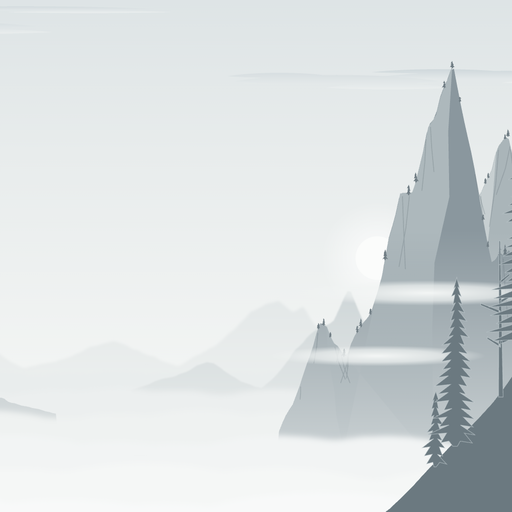
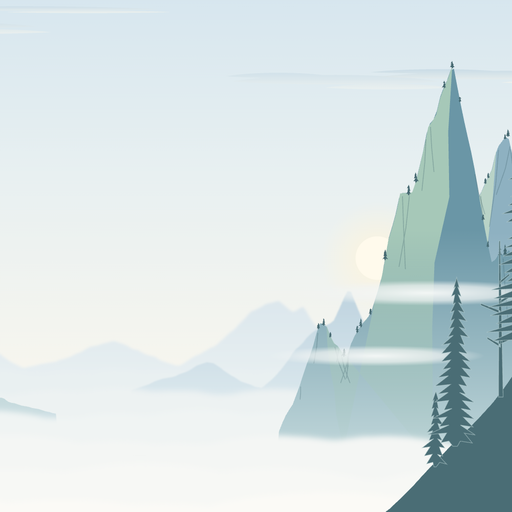
Bring light color back: dusty blue and pale green peaks, warm white mist, pale blue sky

Changed region(s): [[0.75, 0.125, 1.0, 1.0], [0.6875, 0.625, 0.7188, 0.6562]]

diff --git a/hooks/scene/land.ts b/hooks/scene/land.ts
@@ -1,5 +1,5 @@
 // The land: peaks that stand out of a sea of clouds like islands. The far ones are pale and small; the near ones
-// are tall, lighter on the side that faces the sun and dark ink in shade, with firs on their ledges. Every peak
+// are tall, soft green on the side that faces the sun and dusty blue in shade, with firs on their ledges. Every peak
 // fades into cloud at its foot. The tall peaks keep to the sides of the picture.
 
 import { SUN, WIDTH, between, chance } from './kit'
@@ -26,32 +26,32 @@ export const RANGES: readonly Range[] = [
   {
     floor: 704,
     steep: 1.3,
-    rock: '#dfe4e5',
-    foot: '#ecefee',
+    rock: '#d5e2ea',
+    foot: '#e9f0f2',
     peaks: [{ x: 330, reach: 250, rise: 250 }, { x: 590, reach: 150, rise: 100 }, { x: 870, reach: 170, rise: 60 }, { x: 1150, reach: 210, rise: 130 }, { x: 1590, reach: 260, rise: 330 }],
   },
   {
     floor: 736,
     steep: 1.15,
-    rock: '#cbd3d5',
-    foot: '#e3e7e7',
+    rock: '#b8cfdc',
+    foot: '#dde9ee',
     peaks: [{ x: 190, reach: 210, rise: 340 }, { x: 470, reach: 130, rise: 160 }, { x: 1040, reach: 120, rise: 52 }, { x: 1300, reach: 150, rise: 190 }],
   },
   {
     floor: 778,
     steep: 0.95,
-    rock: '#aab5b9',
-    foot: '#d9dedf',
-    lit: '#c7cfd1',
+    rock: '#8eb1c1',
+    foot: '#d3e3e7',
+    lit: '#b9d3c7',
     firs: { spacing: 16, low: 6, high: 13 },
     peaks: [{ x: 70, reach: 200, rise: 430 }, { x: 640, reach: 100, rise: 44 }, { x: 1560, reach: 210, rise: 500 }],
   },
   {
     floor: 826,
     steep: 0.8,
-    rock: '#8a979e',
-    foot: '#cbd2d4',
-    lit: '#adb8bc',
+    rock: '#6a96a6',
+    foot: '#c2d8db',
+    lit: '#a6c8b8',
     firs: { spacing: 13, low: 9, high: 24 },
     peaks: [{ x: -20, reach: 190, rise: 540 }, { x: 320, reach: 96, rise: 150 }, { x: 1266, reach: 84, rise: 210 }, { x: 1466, reach: 196, rise: 580 }],
   },
@@ -172,7 +172,7 @@ function cracks(seed: number, index: number, line: Skyline): string {
     }
   })
 
-  return `<path d="${lines}" fill="none" stroke="#66747b" stroke-opacity=".3" stroke-width="1.5" stroke-linecap="round" stroke-linejoin="round"/>`
+  return `<path d="${lines}" fill="none" stroke="#3f626a" stroke-opacity=".3" stroke-width="1.5" stroke-linecap="round" stroke-linejoin="round"/>`
 }
 
 /** Firs on the ledges, small against the rock, which is what shows how big the peaks are. */
@@ -206,7 +206,7 @@ export function range(seed: number, index: number): string {
   return (
     `<path d="M-40 ${shape.floor + 70}L${edge.join('L')}L${WIDTH + 40} ${shape.floor + 70}Z" fill="url(#rock${index})"${index < 2 ? ` filter="url(#far${index})"` : ''}/>` +
     (shape.lit === undefined ? '' : sunlit(seed, index, line) + cracks(seed, index, line)) +
-    (shape.firs === undefined ? '' : `<path d="${ledgeFirs(seed, index, line, shape.firs)}" fill="#6f7c83"/>`)
+    (shape.firs === undefined ? '' : `<path d="${ledgeFirs(seed, index, line, shape.firs)}" fill="#456870"/>`)
   )
 }
 
@@ -229,5 +229,5 @@ export function ledgeShape(): string {
     edge.push(`${x} ${Math.round(ledge(x))}`)
   }
 
-  return `<path d="M-20 1010L${edge.join('L')}L${WIDTH + 20} 1010Z" fill="#6b7980"/>`
+  return `<path d="M-20 1010L${edge.join('L')}L${WIDTH + 20} 1010Z" fill="#4a6d75"/>`
 }

diff --git a/hooks/register.tsx b/hooks/register.tsx
@@ -1,4 +1,5 @@
-// Vista theme: steep peaks standing out of a sea of mist, in quiet ink grays, with a matching light color theme.
+// Vista theme: steep peaks standing out of a sea of mist, in soft blue and green on warm white, with a matching light
+// color theme.
 // The tall peaks keep to the sides and the middle is left empty, because the app lays the chat there. The view
 // depends only on the session's seed, so it is drawn once and never flickers.
 
@@ -14,16 +15,16 @@ const SEED = { plugin: 'vista-theme', key: 'seed' } as const
 const { theme, problems } = makeColors({
   label: 'Vista',
   only: 'light',
-  roles: { accent: '#3d5a6c', danger: '#b3392f', success: '#2f7a55', warning: '#a86f14', pro: '#6d4f94' },
+  roles: { accent: '#2c6c7a', danger: '#b3392f', success: '#2f7a55', warning: '#a86f14', pro: '#6d4f94' },
   light: {
     gray: {
       anchors: {
-        'surface-0': '#e4e8e8',
-        'surface-1': '#eef0ef',
-        'surface-2': '#f8f9f8',
-        'text-primary': '#1c2123',
-        'text-secondary': '#3c464a',
-        'text-muted': '#556065',
+        'surface-0': '#e5edee',
+        'surface-1': '#eff4f3',
+        'surface-2': '#f9faf7',
+        'text-primary': '#1a2427',
+        'text-secondary': '#394a4f',
+        'text-muted': '#52646a',
       },
     },
   },
@@ -32,7 +33,7 @@ const { theme, problems } = makeColors({
 // The scene's name goes under `id` as well as `scene`, as the theme-examples plugin sets its own.
 const LOOK = {
   colors: theme,
-  backdrop: { scene: SCENE, id: SCENE, glass: { blur: 1, tint: '#eef0ef', opacity: 0.3 } },
+  backdrop: { scene: SCENE, id: SCENE, glass: { blur: 1, tint: '#f1f5f3', opacity: 0.3 } },
 } as unknown as ThemeSetArgs
 
 /**
@@ -110,6 +111,6 @@ export const register: Register = on => {
 
     const { Svg } = $.ui.resolve(e)
 
-    return <Svg isInteractive alt="Steep gray peaks standing out of a sea of mist, the tall ones at both sides with small firs on their ledges, and calm empty sky in the middle" source={backdropSource()} />
+    return <Svg isInteractive alt="Steep blue and green peaks standing out of a sea of white mist, the tall ones at both sides with small firs on their ledges, and calm empty sky in the middle" source={backdropSource()} />
   })
 }

diff --git a/hooks/scene/sky.ts b/hooks/scene/sky.ts
@@ -1,4 +1,4 @@
-// The sky: a calm gray gradient, a sun that is only a white disc in the haze (nothing bright or colored, so it
+// The sky: pale blue above, warm white near the mist, a sun that is only a soft cream disc in the haze (so it
 // never pulls the eye), and thin streaks of high cloud.
 
 import { SUN, WIDTH, between, chance } from './kit'
@@ -9,10 +9,10 @@ export const SKY_STYLE =
 
 export function skyFills(): string {
   return (
-    '<linearGradient id="sky" x1="0" y1="0" x2="0" y2="1"><stop offset="0" stop-color="#dbe2e4"/><stop offset=".45" stop-color="#e8ecec"/><stop offset="1" stop-color="#f3f5f4"/></linearGradient>' +
-    '<radialGradient id="glow"><stop offset="0" stop-color="#fff" stop-opacity=".8"/><stop offset="1" stop-color="#fff" stop-opacity="0"/></radialGradient>' +
+    '<linearGradient id="sky" x1="0" y1="0" x2="0" y2="1"><stop offset="0" stop-color="#d3e4ee"/><stop offset=".5" stop-color="#e8f0f1"/><stop offset="1" stop-color="#f8f6ee"/></linearGradient>' +
+    '<radialGradient id="glow"><stop offset="0" stop-color="#fff4d9" stop-opacity=".85"/><stop offset="1" stop-color="#fff4d9" stop-opacity="0"/></radialGradient>' +
     '<radialGradient id="mist"><stop offset="0" stop-color="#f7f9f8" stop-opacity=".95"/><stop offset=".6" stop-color="#f1f4f3" stop-opacity=".7"/><stop offset="1" stop-color="#f1f4f3" stop-opacity="0"/></radialGradient>' +
-    '<linearGradient id="streak" x1="0" y1="0" x2="0" y2="1"><stop offset="0" stop-color="#c3ced3"/><stop offset="1" stop-color="#f4f6f5"/></linearGradient>'
+    '<linearGradient id="streak" x1="0" y1="0" x2="0" y2="1"><stop offset="0" stop-color="#bdd3e0"/><stop offset="1" stop-color="#fbf8ee"/></linearGradient>'
   )
 }
 
@@ -20,7 +20,7 @@ export function sky(): string {
   return (
     `<rect x="-20" y="-20" width="${WIDTH + 40}" height="760" fill="url(#sky)"/>` +
     `<circle cx="${SUN.x}" cy="${SUN.y}" r="${SUN.size * 2.6}" fill="url(#glow)"/>` +
-    `<circle cx="${SUN.x}" cy="${SUN.y}" r="${SUN.size}" fill="#fbfcfb"/>`
+    `<circle cx="${SUN.x}" cy="${SUN.y}" r="${SUN.size}" fill="#fffaec"/>`
   )
 }
 

diff --git a/hooks/scene/life.ts b/hooks/scene/life.ts
@@ -44,7 +44,7 @@ function flock(seed: number, salt: number, count: number, size: number): string 
     birds += `<g transform="translate(${x} ${y}) scale(${size})"><path class="flap" style="animation-duration:${pace}s;animation-delay:-${(index * 0.17).toFixed(2)}s" d="M-10 1Q-5 -7 0 0Q5 -7 10 1"/></g>`
   }
 
-  return `<g fill="none" stroke="#6b7980" stroke-width="1.8" stroke-linecap="round" stroke-linejoin="round">${birds}</g>`
+  return `<g fill="none" stroke="#4a6d75" stroke-width="1.8" stroke-linecap="round" stroke-linejoin="round">${birds}</g>`
 }
 
 /** The near flock crosses the sky left to right. The far one, smaller, goes the other way low over the peaks. */
@@ -58,5 +58,5 @@ export function farFlock(seed: number): string {
 
 /** An eagle gliding in a wide slow circle, seen from far below. */
 export function eagle(): string {
-  return '<g class="soar"><path d="M0 -3C-9 -6 -27 -8 -42 -2C-29 -2 -14 2 -4 4L-3 11L0 7L3 11L4 4C14 2 29 -2 42 -2C27 -8 9 -6 0 -3Z" fill="#6b7980" transform="scale(.62)"/></g>'
+  return '<g class="soar"><path d="M0 -3C-9 -6 -27 -8 -42 -2C-29 -2 -14 2 -4 4L-3 11L0 7L3 11L4 4C14 2 29 -2 42 -2C27 -8 9 -6 0 -3Z" fill="#4a6d75" transform="scale(.62)"/></g>'
 }

diff --git a/hooks/scene/clouds.ts b/hooks/scene/clouds.ts
@@ -7,12 +7,12 @@ import { chance } from './kit'
 type Row = { level: number; swell: number; grain: number; colour: string; pace: number }
 
 const ROWS: readonly Row[] = [
-  { level: 712, swell: 12, grain: 84, colour: '#e9eded', pace: 150 },
-  { level: 748, swell: 16, grain: 112, colour: '#ecefef', pace: 126 },
-  { level: 792, swell: 22, grain: 148, colour: '#eff2f1', pace: 104 },
-  { level: 842, swell: 28, grain: 190, colour: '#f2f4f4', pace: 88 },
-  { level: 898, swell: 34, grain: 240, colour: '#f5f7f6', pace: 74 },
-  { level: 952, swell: 40, grain: 300, colour: '#f8f9f9', pace: 62 },
+  { level: 712, swell: 12, grain: 84, colour: '#e9f0f1', pace: 150 },
+  { level: 748, swell: 16, grain: 112, colour: '#edf2f2', pace: 126 },
+  { level: 792, swell: 22, grain: 148, colour: '#f0f4f3', pace: 104 },
+  { level: 842, swell: 28, grain: 190, colour: '#f4f6f4', pace: 88 },
+  { level: 898, swell: 34, grain: 240, colour: '#f7f8f5', pace: 74 },
+  { level: 952, swell: 40, grain: 300, colour: '#fbfaf6', pace: 62 },
 ]
 
 export const CLOUD_ROWS = ROWS.length

diff --git a/hooks/scene.ts b/hooks/scene.ts
@@ -32,7 +32,7 @@ export function sceneSvg(seed: number): string {
     nearFlock(seed) +
     eagle() +
     ledgeShape() +
-    `<g fill="#6b7980" stroke="#c9d3d6" stroke-opacity=".5" stroke-width="1.2">${pines(seed)}</g>` +
+    `<g fill="#4a6d75" stroke="#bcd3d4" stroke-opacity=".5" stroke-width="1.2">${pines(seed)}</g>` +
     '</svg>'
   )
 }

diff --git a/README.md b/README.md
@@ -1,8 +1,8 @@
 # Vista theme for the Claude desktop app
 
-A quiet view in ink grays, after old Chinese mountain paintings, drawn in a clean modern way. Steep peaks stand out of a sea of mist like islands: pale and soft far away, taller and a little darker near you, with tiny firs on their ledges and ribbons of mist across their waists.
+A quiet view after old Chinese mountain paintings, drawn in a clean modern way, in the soft blue and green those painters used for rock (the "blue-green" manner) on warm white. Steep peaks stand out of a sea of mist like islands: pale blue and soft far away, taller near you with a pale green sunlit side and a dusty blue shaded side, with tiny firs on their ledges and ribbons of mist across their waists.
 
-![steep gray peaks standing out of a sea of mist, the tall ones at both sides, and calm empty sky in the middle](docs/preview.gif)
+![steep blue and green peaks standing out of a sea of mist, the tall ones at both sides, and calm empty sky in the middle](docs/preview.gif)
 
 ## Made to sit behind a conversation
 
@@ -13,16 +13,16 @@ The app lays the chat down the middle of the window, and a theme cannot move it.
 These are the old painters' means, kept; the antique look (seals, brush texture, yellowed paper) is left out.
 
 - **Emptiness.** Most of the page is unpainted. The eye rests in it.
-- **Thin ink.** Each farther range is paler and softer, and every peak fades into mist at its foot.
-- **Gray only.** No strong color anywhere. The sun is just a white disc in the haze, so it never pulls the eye.
-- **Low contrast.** Even the nearest firs and rock are a soft mid gray, never black, so nothing jars against the pale page.
+- **Thin color.** Each farther range is paler and softer, and every peak fades into mist at its foot.
+- **Light color only.** Dusty blue, pale green and warm white. Nothing strong, nothing gray and dead. The sun is just a cream disc in the haze, so it never pulls the eye.
+- **Low contrast.** Even the nearest firs and rock are a soft mid tone, never black, so nothing jars against the pale page.
 - **Stillness.** The mist rolls slowly, ribbons of it drift across the peaks, and a few birds cross.
 
 ## A new view every session
 
 Each session draws its own view from its own seed (taken from when the session started): the outline of every peak, its side summits and cracks, where the firs stand, how the mist lies. The view is drawn once and then left alone, so nothing flickers while Claude works.
 
-The colors are a light theme in cool grays with dark text.
+The colors are a light theme in pale blue-green whites with dark text.
 
 ## Install
 

diff --git a/docs/references.md b/docs/references.md
@@ -94,12 +94,21 @@ The level-distance version (low hills, flat water, thin trees) was calm, but the
 
 So the two were joined: the steep peaks, mist ribbons, tiny firs and sea of cloud from the third try, in the gray ink of the fourth. The sun is now only a white disc in the haze, with no color and no rays. The two farthest ranges are slightly blurred; the app kept the picture moving with that blur when measured.
 
+## The sixth try: light color, not gray
+
+Two gray versions failed in opposite ways. Dark slate peaks with near-black firs were "too dark, the contrast is jarring". Lightened to mid grays, the whole thing looked "faded gray". Gray alone has no life in it.
+
+The old painters had an answer for this too: the "blue-green" manner (qinglu), where rock is washed with soft mineral blue and green instead of plain ink. So the peaks are dusty blue in shade and pale green where the sun touches, the far ranges are pale blue, the mist is warm white, and the sky runs from pale blue down to warm white. Still light, still low in contrast, no orange.
+
+Also fixed here: the mist rows were each shaded darker toward the bottom with a bright line on top, which read as folds in paper. They are now flat, soft-edged, and each nearer row only a touch whiter.
+
 ## Rules this theme follows
 
-1. Gray ink on cool paper. No strong color at all, the sun included.
+1. Light color: dusty blue, pale green, warm white. Not orange, and not gray alone.
 2. The middle is empty on purpose. The words sit there.
 3. Steep peaks are welcome, but only at the sides.
 4. Farther is paler and softer. Every peak dissolves into mist at its foot.
-5. Low contrast everywhere: the darkest thing is a soft mid gray, never black. Dark near peaks and black firs were tried and felt jarring.
+5. Low contrast everywhere: the darkest thing is a soft mid tone, never black.
 6. Never put a light source or its rays behind the words, and never let it be the brightest or most colored thing on screen.
-7. Slow motion only: rolling mist, a few birds.
+7. Mist has no shading lines. It is one pale field.
+8. Slow motion only: rolling mist, a few birds.
